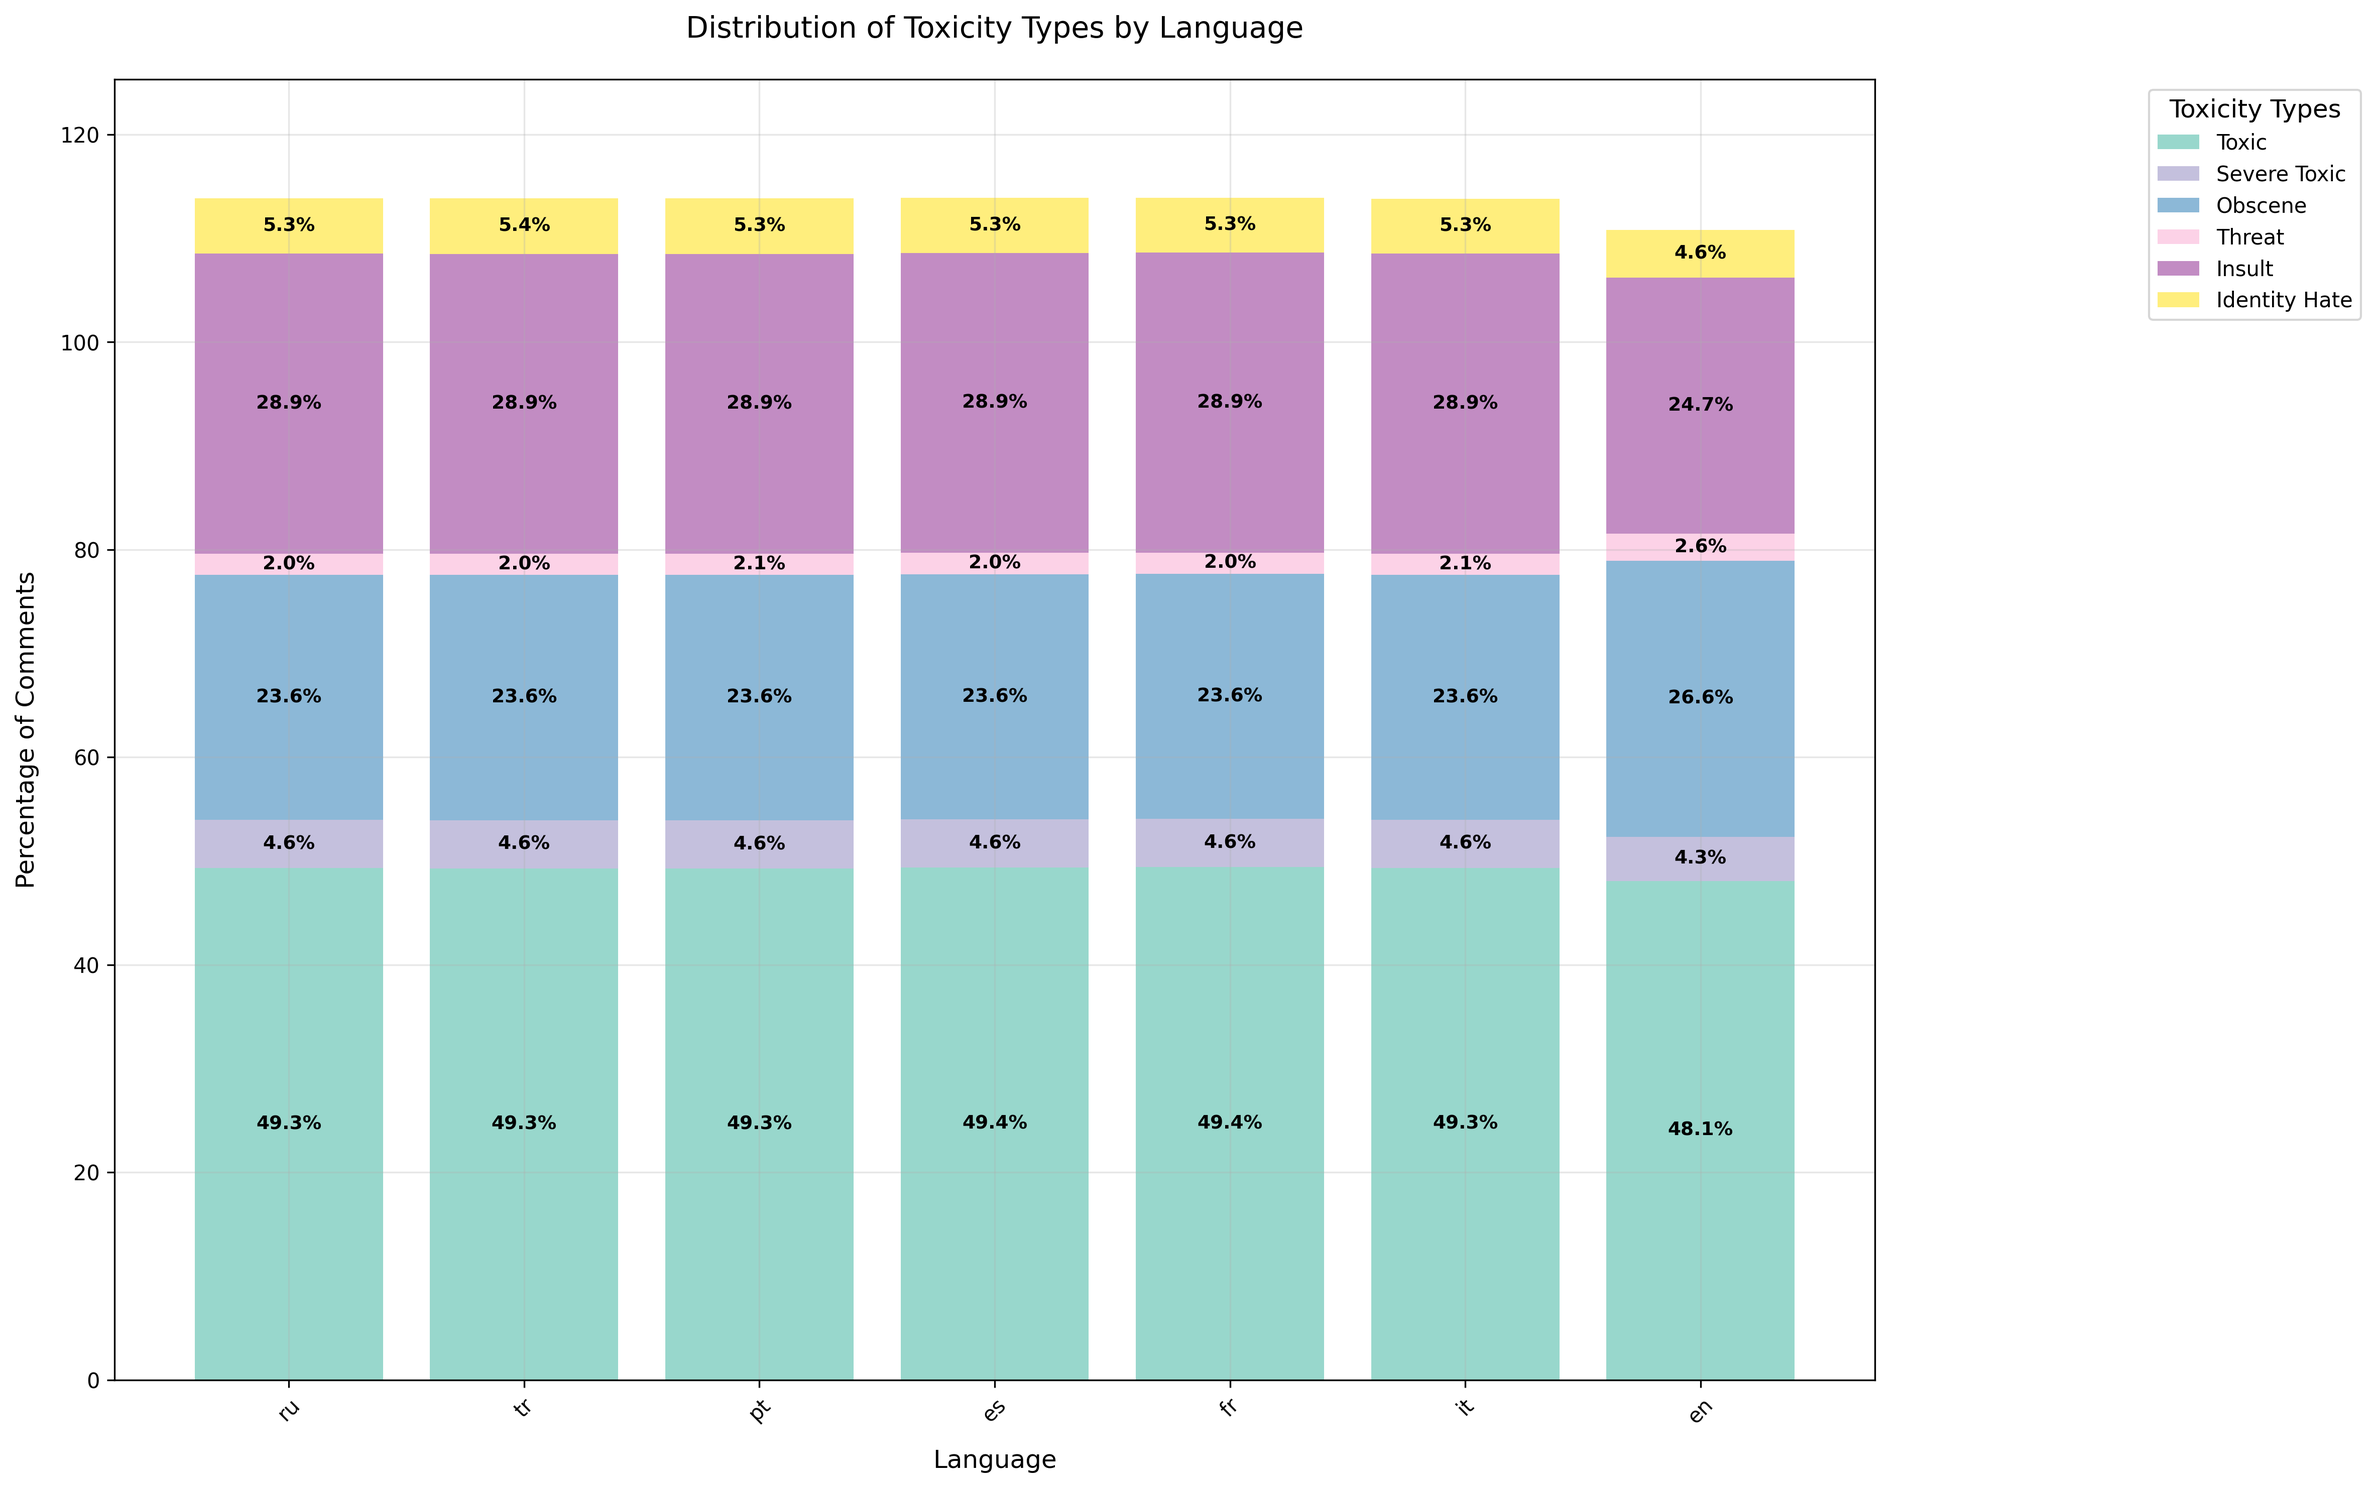
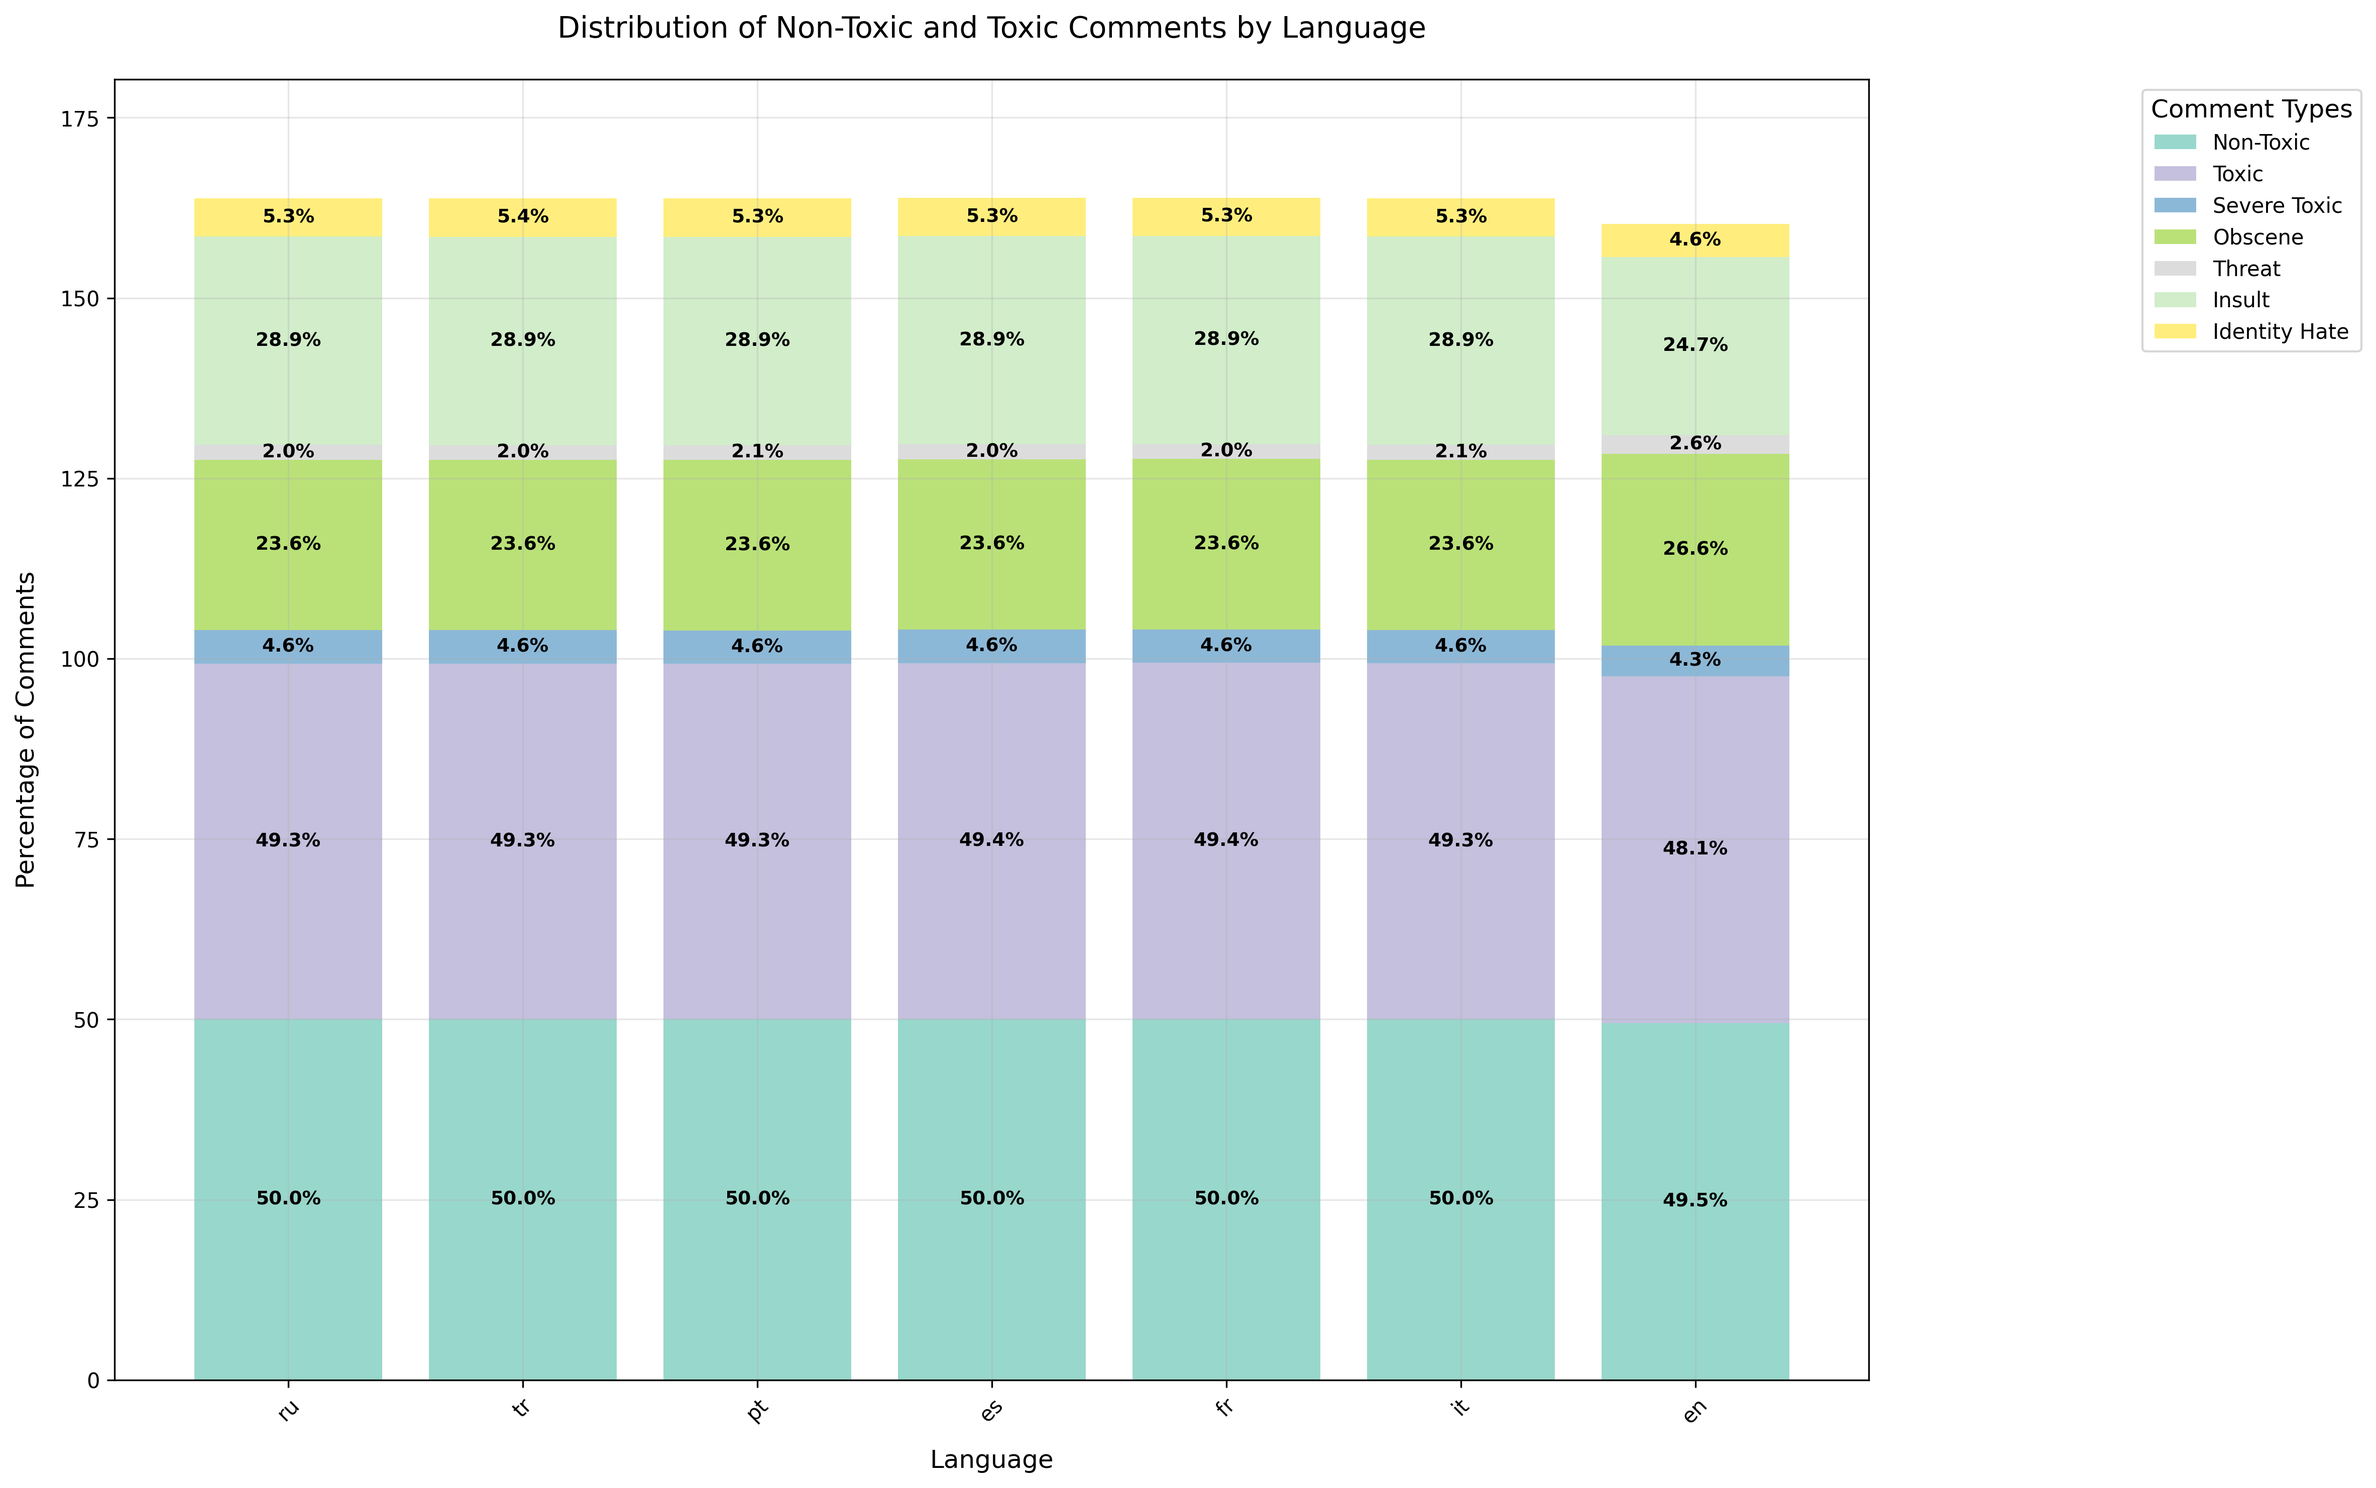
Enhance toxicity analysis visualization and threshold optimization
- Updated class distribution plot to include non-toxic comments
- Improved threshold selection in evaluation with precision-focused approach
- Added minimum precision constraint for threshold optimization
- Refined default thresholds for toxicity classes
- Enhanced precision and recall tracking during model evaluation

diff --git a/model/evaluation/evaluate.py b/model/evaluation/evaluate.py
@@ -6,7 +6,7 @@ import numpy as np
 from sklearn.metrics import (
     roc_auc_score, precision_recall_fscore_support, 
     confusion_matrix, roc_curve, hamming_loss, 
-    accuracy_score
+    accuracy_score, precision_score, recall_score
 )
 from sklearn.calibration import calibration_curve
 from sklearn.utils import resample
@@ -22,7 +22,6 @@ from torch.utils.data import Dataset, DataLoader
 import gc
 import multiprocessing
 import multiprocessing as mp
-from functools import partial
 
 # Set matplotlib to non-interactive backend
 plt.switch_backend('agg')
@@ -129,11 +128,16 @@ def evaluate_language(args):
                 # Calculate class distribution for adaptive thresholding
                 pos_ratio = np.mean(class_labels)
                 
-                # Find optimal threshold using F1 score with class weights
+                # Find optimal threshold using precision-focused approach
                 fpr, tpr, thresh = roc_curve(class_labels, class_preds)
-                f1_scores = []
                 
-                # Calculate weighted F1 score for each threshold
+                # Calculate precision scores with minimum precision constraint
+                MIN_PRECISION = 0.8  # Minimum required precision
+                precision_scores = []
+                f1_scores = []
+                recall_scores = []
+                
+                # Calculate class weights for weighted metrics
                 class_weights = compute_class_weight(
                     class_weight='balanced',
                     classes=np.unique(class_labels),
@@ -145,19 +149,50 @@ def evaluate_language(args):
                 for t in thresh:
                     binary_preds = (class_preds > t).astype(int)
                     try:
-                        _, _, f1, _ = precision_recall_fscore_support(
+                        # Calculate precision
+                        precision = precision_score(
                             class_labels, binary_preds,
-                            average='binary',
                             sample_weight=sample_weights,
                             zero_division=0
                         )
+                        precision_scores.append(precision)
+                        
+                        # Calculate recall and F1 only if precision meets minimum requirement
+                        if precision >= MIN_PRECISION:
+                            recall = recall_score(
+                                class_labels, binary_preds,
+                                sample_weight=sample_weights,
+                                zero_division=0
+                            )
+                            f1 = 2 * (precision * recall) / (precision + recall) if (precision + recall) > 0 else 0
+                        else:
+                            recall = 0
+                            f1 = 0
+                            
+                        recall_scores.append(recall)
                         f1_scores.append(f1)
+                        
                     except Exception:
+                        precision_scores.append(0.0)
+                        recall_scores.append(0.0)
                         f1_scores.append(0.0)
                 
-                # Select threshold that maximizes F1 score
-                best_idx = np.argmax(f1_scores)
-                initial_threshold = thresh[best_idx]
+                # Find threshold that maximizes F1 while meeting precision constraint
+                valid_indices = [i for i, p in enumerate(precision_scores) if p >= MIN_PRECISION]
+                
+                if valid_indices:
+                    # Among thresholds meeting precision constraint, choose one with highest F1
+                    best_idx = valid_indices[np.argmax([f1_scores[i] for i in valid_indices])]
+                    initial_threshold = thresh[best_idx]
+                    achieved_precision = precision_scores[best_idx]
+                    achieved_recall = recall_scores[best_idx]
+                else:
+                    # If no threshold meets precision constraint, find highest precision threshold
+                    best_idx = np.argmax(precision_scores)
+                    initial_threshold = thresh[best_idx]
+                    achieved_precision = precision_scores[best_idx]
+                    achieved_recall = recall_scores[best_idx]
+                    print(f"Warning: Could not meet minimum precision requirement for {class_name}")
                 
                 # Test the initial threshold
                 test_preds = (class_preds > initial_threshold).astype(int)
@@ -166,22 +201,26 @@ def evaluate_language(args):
                     
                     # Use adaptive thresholding based on class distribution
                     if pos_ratio > 0:  # If we have positive samples in ground truth
-                        # Try multiple percentiles and pick the one that gives closest positive ratio
+                        # Try multiple percentiles and pick the one that gives best precision
                         percentiles = [90, 85, 80, 75, 70]
                         best_threshold = initial_threshold
-                        min_ratio_diff = float('inf')
+                        best_precision = 0
                         
                         for p in percentiles:
                             threshold = np.percentile(class_preds, p)
-                            pred_ratio = np.mean(class_preds > threshold)
-                            ratio_diff = abs(pred_ratio - pos_ratio)
-                            
-                            if ratio_diff < min_ratio_diff:
-                                min_ratio_diff = ratio_diff
-                                best_threshold = threshold
+                            test_preds = (class_preds > threshold).astype(int)
+                            if test_preds.sum() > 0:  # Only consider thresholds that give positive predictions
+                                precision = precision_score(
+                                    class_labels, test_preds,
+                                    sample_weight=sample_weights,
+                                    zero_division=0
+                                )
+                                if precision > best_precision:
+                                    best_precision = precision
+                                    best_threshold = threshold
                         
                         # Set a minimum threshold to prevent too many false positives
-                        lang_thresholds[class_name] = max(best_threshold, 0.2)
+                        lang_thresholds[class_name] = max(best_threshold, 0.4)
                     else:
                         # If no positive samples, use a conservative threshold
                         lang_thresholds[class_name] = 0.7
@@ -190,20 +229,30 @@ def evaluate_language(args):
                 
                 # Validate final threshold
                 final_preds = (class_preds > lang_thresholds[class_name]).astype(int)
-                pred_ratio = np.mean(final_preds)
+                final_precision = precision_score(
+                    class_labels, final_preds,
+                    sample_weight=sample_weights,
+                    zero_division=0
+                )
+                final_recall = recall_score(
+                    class_labels, final_preds,
+                    sample_weight=sample_weights,
+                    zero_division=0
+                )
+                
                 print(f"  {class_name}: threshold={lang_thresholds[class_name]:.4f}, "
-                      f"pred_ratio={pred_ratio:.4f}, true_ratio={pos_ratio:.4f}")
+                      f"precision={final_precision:.4f}, recall={final_recall:.4f}")
                 
             except Exception as e:
                 print(f"Warning: Could not optimize threshold for {class_name} in {lang_name}: {str(e)}")
-                # Use class-specific default thresholds based on typical values
+                # Use class-specific default thresholds based on typical values with high precision
                 default_thresholds = {
-                    'toxic': 0.4,
-                    'severe_toxic': 0.25,
-                    'obscene': 0.45,
-                    'threat': 0.35,
-                    'insult': 0.4,
-                    'identity_hate': 0.25
+                    'toxic': 0.5,
+                    'severe_toxic': 0.35,
+                    'obscene': 0.55,
+                    'threat': 0.45,
+                    'insult': 0.5,
+                    'identity_hate': 0.35
                 }
                 lang_thresholds[class_name] = default_thresholds.get(class_name, 0.5)
         
@@ -533,8 +582,10 @@ def evaluate_model(model, test_loader, device, output_dir):
         # Calculate macro and weighted specificity
         results['overall'].update({
             'specificity_macro': np.mean(specificities),
-            'specificity_weighted': (np.sum(weighted_specificities) / np.sum(class_weights) 
-                                   if np.sum(class_weights) > 0 else 0.0)
+            'specificity_weighted': (
+                np.sum(weighted_specificities) / np.sum(class_weights) 
+                if np.sum(class_weights) > 0 else 0.0
+            )
         })
         
         # Add per-class specificity

diff --git a/analysis/analyze_lang_distribution.py b/analysis/analyze_lang_distribution.py
@@ -146,6 +146,7 @@ def create_class_distribution_plot(df, lang_dist, image_dir):
     
     # Calculate class distribution for each language
     class_dist = {}
+    non_toxic_dist = {}  # Store non-toxic percentages
     for lang in lang_dist.index:
         lang_df = df[df['lang'] == lang]
         total = len(lang_df)
@@ -153,20 +154,41 @@ def create_class_distribution_plot(df, lang_dist, image_dir):
         # Create a binary matrix of toxicity flags
         toxic_matrix = lang_df[toxicity_cols].astype(bool)
         
+        # Calculate non-toxic percentage (comments with no toxic flags)
+        non_toxic_mask = ~toxic_matrix.any(axis=1)
+        non_toxic_percent = (non_toxic_mask.sum() / total) * 100
+        non_toxic_dist[lang] = non_toxic_percent
+        
         # Calculate percentages for each toxicity type
         class_dist[lang] = [(toxic_matrix[col].sum() / total) * 100 for col in toxicity_cols]
     
     # Create stacked bar chart
     x = np.arange(len(lang_dist.index))
-    bottom = np.zeros(len(lang_dist.index))
     
-    # Use a more distinct color scheme
-    colors = plt.cm.Set3(np.linspace(0, 1, len(toxicity_cols)))
+    # Use a color scheme with an additional color for non-toxic
+    colors = plt.cm.Set3(np.linspace(0, 1, len(toxicity_cols) + 1))
     
-    bars = []
+    # First, plot non-toxic comments
+    non_toxic_values = [non_toxic_dist[lang] for lang in lang_dist.index]
+    non_toxic_bar = plt.bar(x, non_toxic_values, label='Non-Toxic', color=colors[0], alpha=0.9)
+    
+    # Add percentage labels for non-toxic
+    for j, v in enumerate(non_toxic_values):
+        if v > 1:  # Show all values above 1%
+            plt.text(x[j], v/2, f'{v:.1f}%', 
+                    ha='center', va='center', 
+                    color='black', 
+                    fontweight='bold',
+                    fontsize=9)
+    
+    # Initialize bottom array with non-toxic values
+    bottom = np.array(non_toxic_values)
+    
+    # Then plot toxic categories
+    bars = [non_toxic_bar]
     for i, (col, display_name) in enumerate(zip(toxicity_cols, display_names)):
         values = [class_dist[lang][i] for lang in lang_dist.index]
-        bar = plt.bar(x, values, bottom=bottom, label=display_name, color=colors[i], alpha=0.9)
+        bar = plt.bar(x, values, bottom=bottom, label=display_name, color=colors[i+1], alpha=0.9)
         bars.append(bar)
         
         # Add percentage labels for all values > 1%
@@ -179,15 +201,15 @@ def create_class_distribution_plot(df, lang_dist, image_dir):
                         color=text_color, 
                         fontweight='bold',
                         fontsize=9)
-        bottom += values
+        bottom = bottom + np.array(values)  # Update bottom array correctly
     
     plt.xlabel('Language', labelpad=10, fontsize=12)
     plt.ylabel('Percentage of Comments', labelpad=10, fontsize=12)
-    plt.title('Distribution of Toxicity Types by Language', pad=20, fontsize=14)
+    plt.title('Distribution of Non-Toxic and Toxic Comments by Language', pad=20, fontsize=14)
     plt.xticks(x, lang_dist.index, rotation=45, fontsize=10)
     
     # Adjust legend
-    plt.legend(title='Toxicity Types', 
+    plt.legend(title='Comment Types', 
               bbox_to_anchor=(1.15, 1), 
               loc='upper left',
               fontsize=10,
